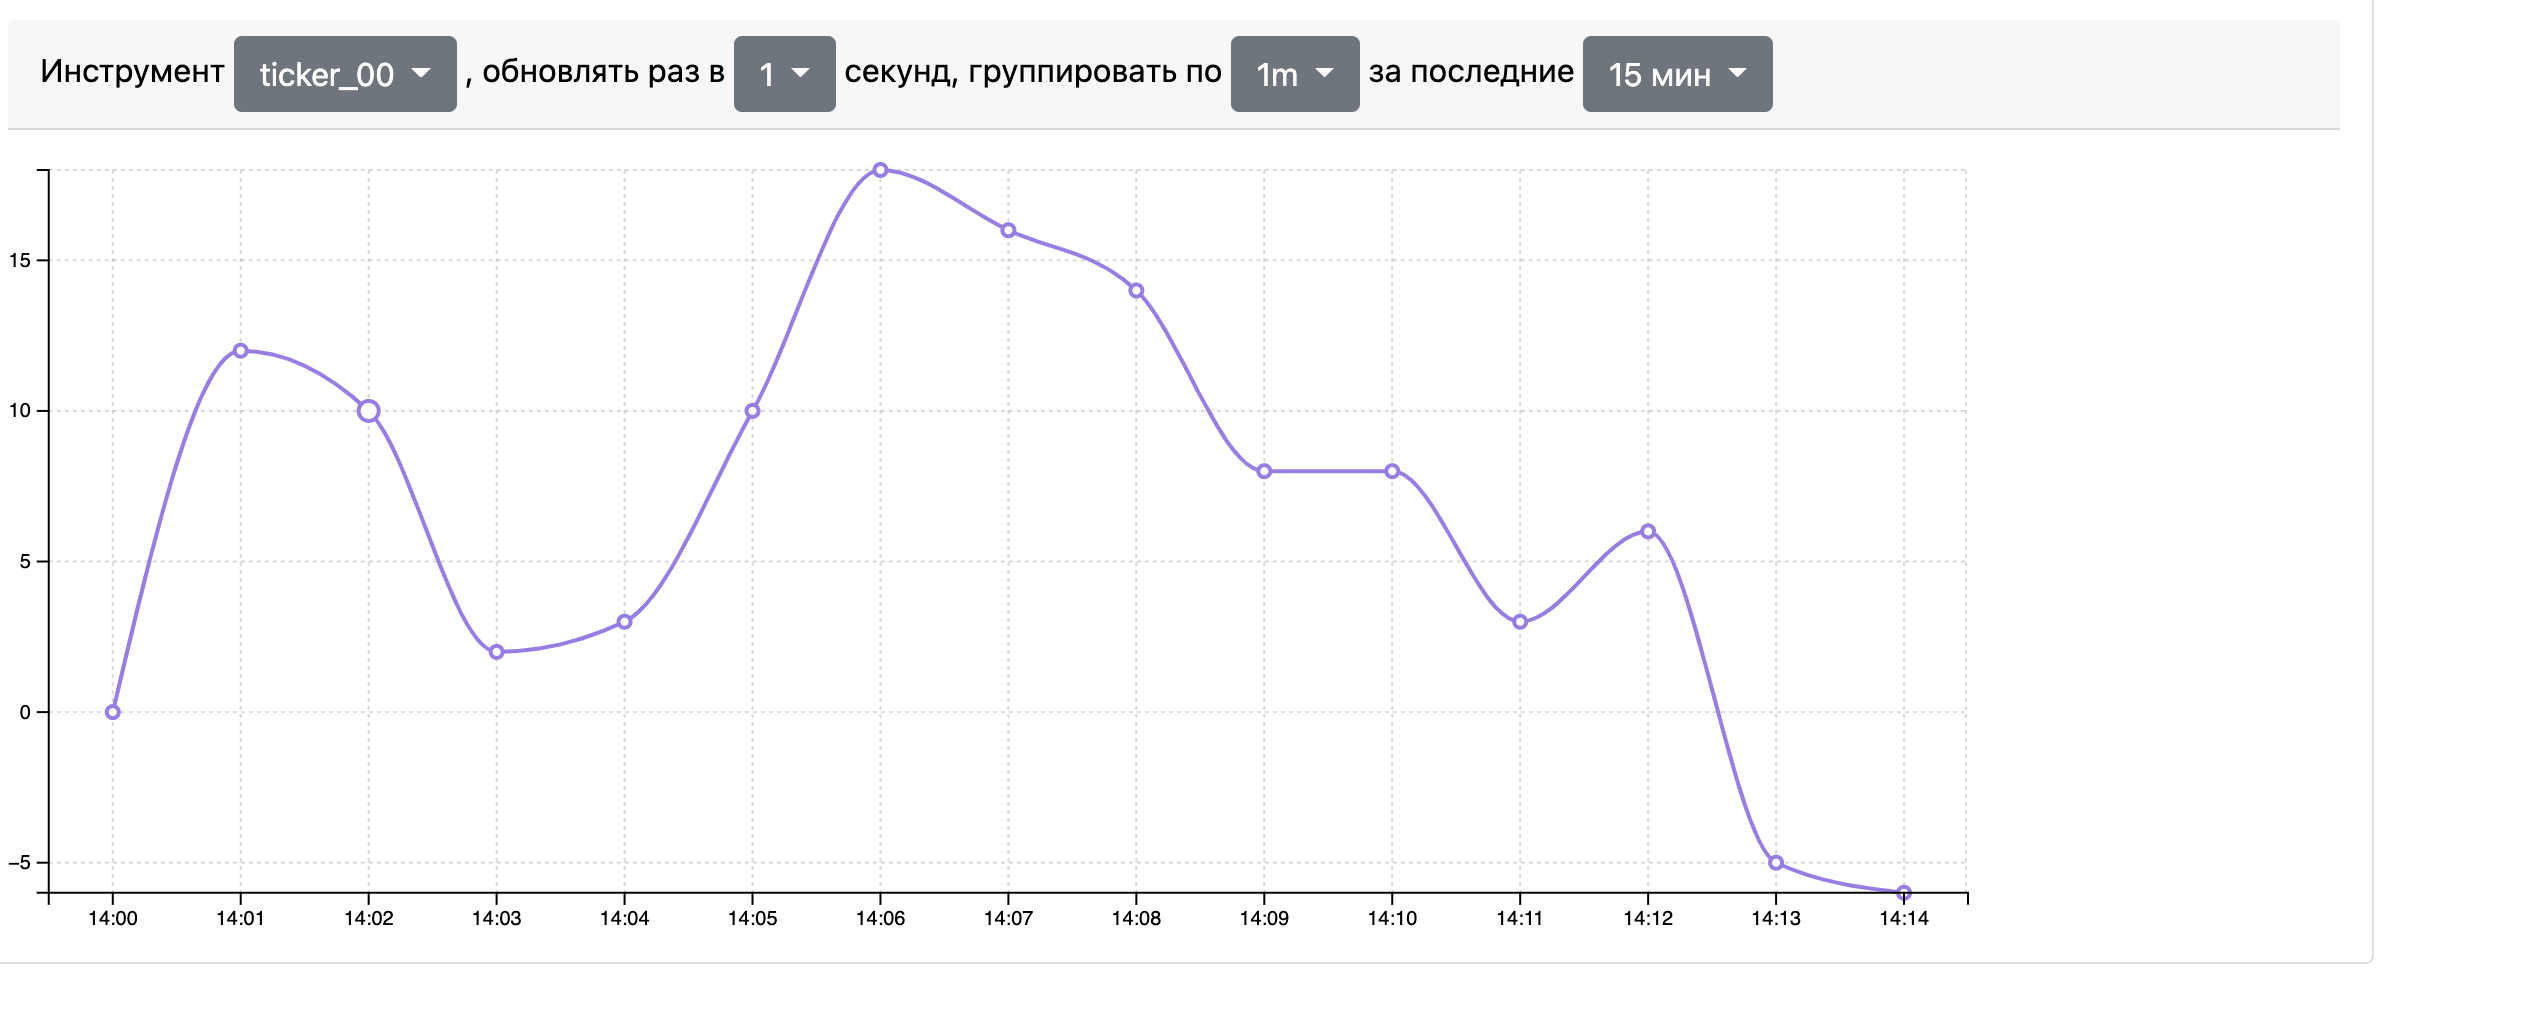
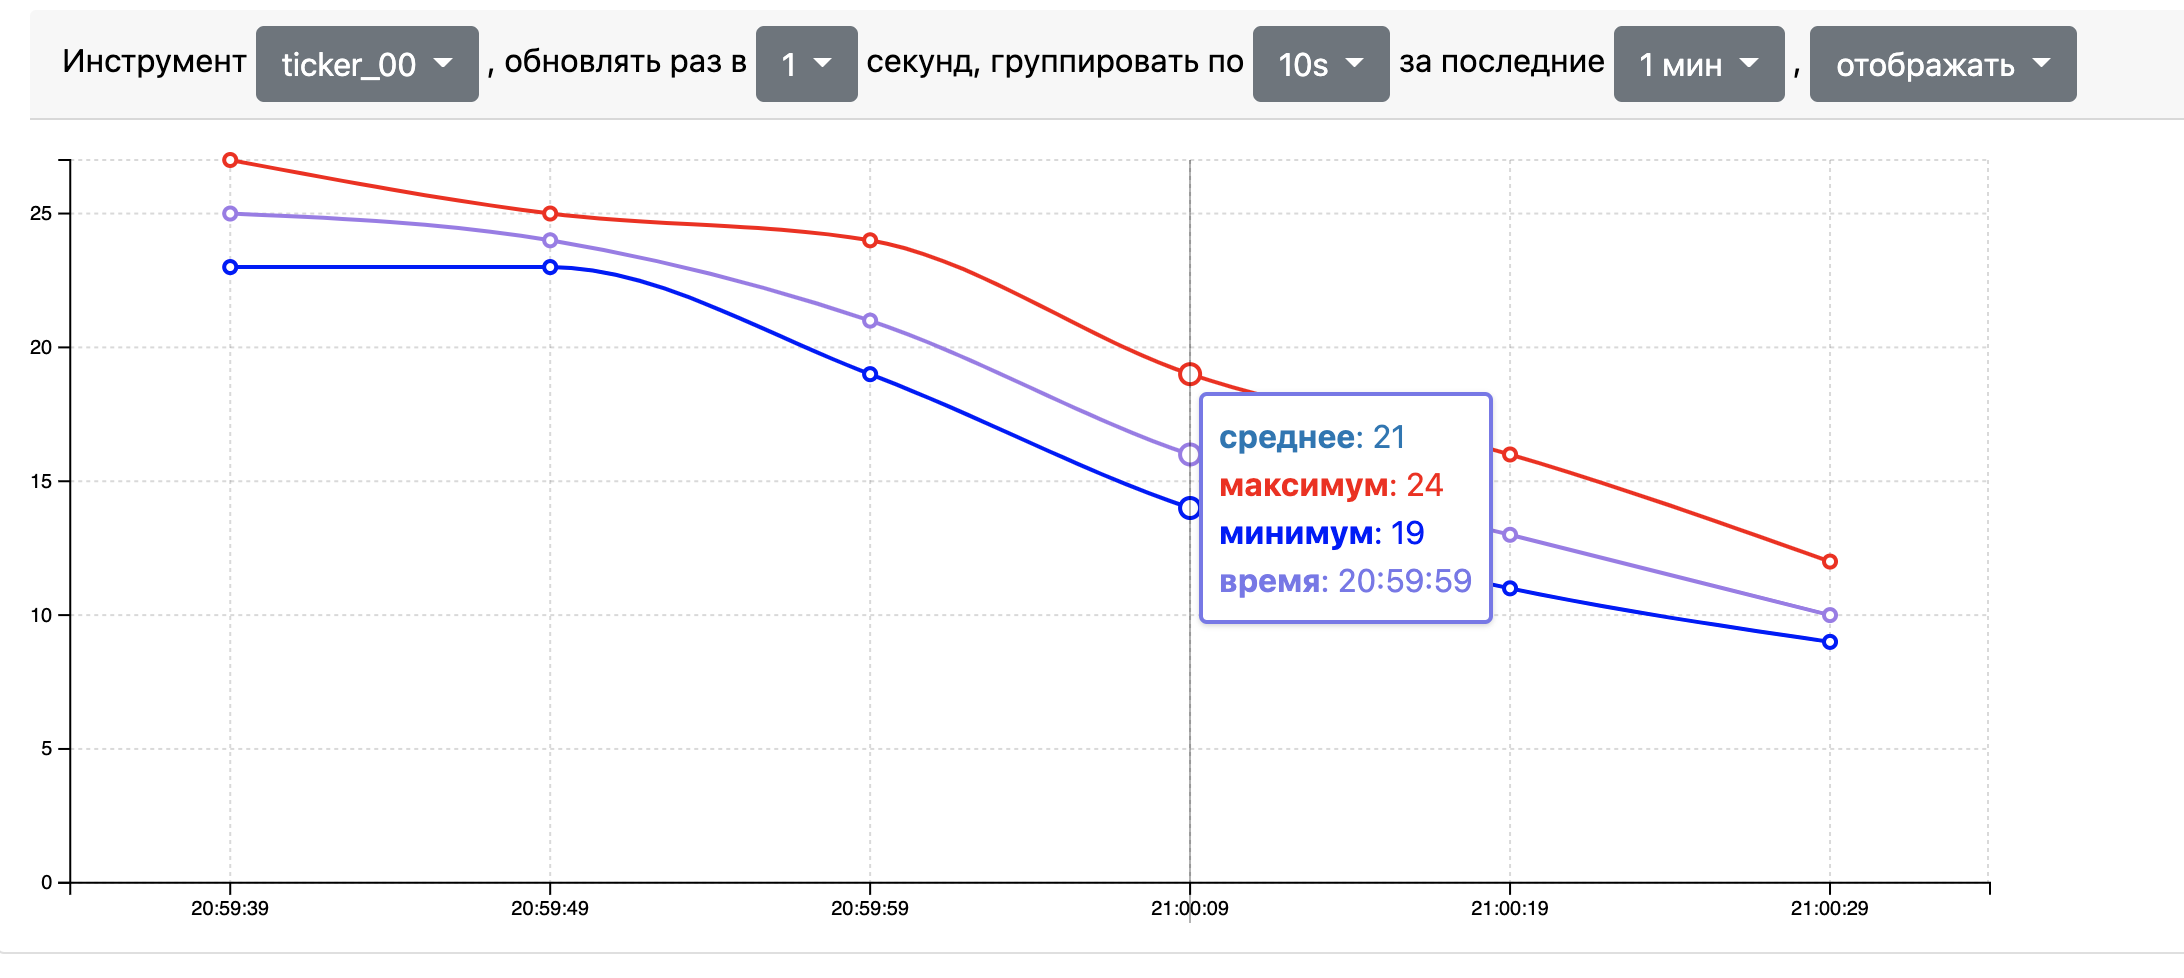
added min and max charts

diff --git a/fronend/src/components/Chart.vue b/fronend/src/components/Chart.vue
@@ -1,22 +1,15 @@
 <script>
-import { defineComponent, ref } from 'vue'
-import { Chart, Grid, Line } from 'vue3-charts'
+import { defineComponent } from 'vue'
+import { Chart, Grid, Line, Tooltip } from 'vue3-charts'
 import axios from "axios";
 
 
-const server = import.meta.env.VUE_APP_SERVER_ADRESS || 'http://80.78.255.252:8000'
+const server = import.meta.env.VUE_APP_SERVER_ADRESS || 'http://127.0.0.1:5000'
 
-console.log("process");
-console.log(import.meta);
-
-const ORIGIN = {
-  'Access-Control-Allow-Origin': 'http://127.0.0.1:3000',
-  'Access-Control-Allow-Credentials': 'true',
-}
 
 export default defineComponent({
   name: 'LineChart',
-  components: { Chart, Grid, Line },
+  components: { Chart, Grid, Line, Tooltip },
   data(){
     return {
       chart_data: [],
@@ -24,10 +17,16 @@ export default defineComponent({
       sleep_delay: 1,
       range_cnt: 5,
       range_type: 's',
+      aggregation_type: 'avg',
       last_minute_show: 1,
       labels:[],
       label: null,
       alert_label: null,
+      show: {
+        min: true,
+        max: true,
+        avg: true,
+      }
     }
   },
   methods: {
@@ -36,20 +35,31 @@ export default defineComponent({
     },
     async update_chart() {
       let data = null;
+      // this.alert_label = null;
       try {
         data = await this.get_updates(this.label, this.range_cnt, this.range_type, this.last_minute_show);
       } catch (e) {
         this.alert_label = "Временно недоступен сервер";
       }
-      this.alert_label = null;
-      if (data!==null)
+      if (data!==null) {
+        if (data.length === 0)
+          this.alert_label = 'Данные за выбранный тип группировки еще не сформированы';
+        else
+          this.alert_label = null;
         this.set_updates(data);
+      }
     },
     async get_updates(label, range_cnt, range_type, last_minute_show){
-      return (await axios.get(`${server}/ticker/${label}?range_cnt=${range_cnt}&range_type=${range_type}&last_minute_show=${last_minute_show}`, ORIGIN)).data
+      const params = {
+        'range_cnt': this.range_cnt,
+        'range_type': this.range_type,
+        'last_minute_show': this.last_minute_show,
+        'aggregation_type': this.aggregation_type,
+      }
+        return (await axios.get(`${server}/ticker/${label}`, {'params': params})).data
     },
     async get_labels(){
-      return (await axios.get(`${server}/ticker/`, ORIGIN)).data
+      return (await axios.get(`${server}/ticker/`)).data
     },
     set_updates(data){
       this.chart_data = data
@@ -152,10 +162,23 @@ export default defineComponent({
                 if (this.last_minute_show > 2 && this.range_type === 's') {
                   this.range_type = 'm';
                   this.range_cnt = 1;
-                }}"
+                }
+                if (this.last_minute_show <= 2 && this.range_type === 'm'){
+                      this.range_type = 's';
+                      this.range_cnt = 10;
+                }
+              }"
           >
             {{item}} мин
           </b-dropdown-item>
+        </b-dropdown>
+        ,
+        <b-dropdown
+            :text="'отображать'"
+        >
+          <b-dropdown-item> <b-form-checkbox v-model="this.show.min">минимум</b-form-checkbox></b-dropdown-item>
+          <b-dropdown-item> <b-form-checkbox v-model="this.show.max">максимум</b-form-checkbox></b-dropdown-item>
+          <b-dropdown-item> <b-form-checkbox v-model="this.show.avg">среднее</b-form-checkbox></b-dropdown-item>
         </b-dropdown>
       </b-card-header>
       <b-badge variant="danger">{{this.alert_label}}</b-badge>
@@ -167,10 +190,38 @@ export default defineComponent({
 
         <template #layers>
           <Grid strokeDasharray="2,2" />
-          <Line :dataKeys="['name', 'value']"
+          <Line :dataKeys="['name', 'avg']"
+                v-if="this.show.avg"
                 type="monotone"
                 :lineStyle="{
-                stroke: '#9f7aea'
+                  stroke: '#9f7aea'
+                }"
+          />
+          <Line :dataKeys="['name', 'min']"
+                v-if="this.show.min"
+                type="monotone"
+                :lineStyle="{
+                  stroke: 'blue'
+                }"
+          />
+          <Line :dataKeys="['name', 'max']"
+                v-if="this.show.max"
+                type="monotone"
+                :lineStyle="{
+                  stroke: 'red'
+                }"
+          />
+
+        </template>
+
+        <template #widgets>
+          <Tooltip
+              borderColor="#48CAE4"
+              :config="{
+                name: { label: 'время' },
+                max: { hide: !this.show.max, label: 'максимум', color: 'red' },
+                avg: { hide: !this.show.avg, label: 'среднее', color: '#0077b6' },
+                min: { hide: !this.show.min, label: 'минимум', color: 'blue' },
               }"
           />
         </template>

diff --git a/fronend/src/App.vue b/fronend/src/App.vue
@@ -1,6 +1,5 @@
 <script>
-import LineChart from './components/HelloWorld.vue'
-// import MonthlyChart from './components/BarChart.vue'
+import LineChart from './components/Chart.vue'
 
 
 export default {

diff --git a/backend/src/app.py b/backend/src/app.py
@@ -3,6 +3,7 @@ from flask_cors import CORS, cross_origin
 import datetime
 
 from src.storage import stocks_runtime, stocks_storage
+from src.utils import iter_property
 
 app = Flask(__name__)
 cors = CORS(app)
@@ -20,12 +21,15 @@ def get_ticker_by_id(ticker_id: int):
     range_cnt = int(request.args.get('range_cnt', 15))
     range_type = request.args.get('range_type', 's')
     last_minute_show = int(request.args.get('last_minute_show'))
+    aggregation_type = request.args.get('aggregation_type', 'avg')
 
     if range_type == 's':
         last_minute_show *= 60
     point_cnt = int(last_minute_show / range_cnt)
 
-    assert point_cnt <= 120, "количество точек ограничено (не более 120)"
+    assert range_type in ['s', 'm'], 'допустимые варианты группировки ("s", "m")'
+    assert aggregation_type in ['avg', 'min', 'max'], 'допустимые варианты агрегации ("avg", "min", "max")'
+    assert 0 < point_cnt <= 120, "количество точек ограничено (не более 120)"
 
     today = datetime.datetime.now()
     step = range_cnt
@@ -36,44 +40,48 @@ def get_ticker_by_id(ticker_id: int):
 
         # секунды надо группировать к целым числам шага, иначе график будет постоянно дергаться,
         # тк в группы границы групп постоянно едут
-        to_whole = (len(stocks_runtime[ticker_id]) - 60) % step
+        to_whole = (len(stocks_runtime[ticker_id]) - 60) % step  # до целого значения шага
         if to_whole > 0:
-            ranges = stocks_runtime[ticker_id][-(step * point_cnt) - to_whole:-to_whole]
+            values = stocks_runtime[ticker_id][-(step * point_cnt) - to_whole:-to_whole]
             today = today - datetime.timedelta(seconds=to_whole)
         else:
-            ranges = stocks_runtime[ticker_id][-(step * point_cnt):]
+            values = stocks_runtime[ticker_id][-(step * point_cnt):]
 
-        def sign(index):
-            stamp = today - datetime.timedelta(seconds=int(len(ranges) - index * step + step / 2))
-            return stamp.strftime('%H:%M:%S')
+        def get_seconds_range_by_step(step_num):
+            return values[step * step_num:step * (step_num + 1)]
 
         return jsonify([
             {
-                'name': sign(i),
-                'value': int(sum(ranges[step * i:step * (i + 1)]) / step),
+                'name': (today - datetime.timedelta(seconds=int(len(values) - step_num * step + step / 2))).strftime('%H:%M:%S'),
+                'avg': int(sum(seconds)/step),
+                'min': min(seconds),
+                'max': max(seconds),
             }
-            for i in range(int(len(ranges) / step))
+            for step_num, seconds in iter_property(range(int(len(values) / step)), get_seconds_range_by_step)
         ])
 
     if range_type == 'm':
         assert range_cnt <= 60
-
-        ranges = stocks_storage[ticker_id][today.hour]['value']
-        groups_amount = int(len(ranges) / step)
+        if stocks_storage[ticker_id].get(today.hour) is None:
+            return jsonify([])
+        values = stocks_storage[ticker_id][today.hour]['value']
+        groups_amount = int(len(values) / step)
         groups_amount = point_cnt if groups_amount > point_cnt else groups_amount
-        start_minute = today.minute - groups_amount * step
+        start_minute = max(values.keys()) + 1 - groups_amount * step
 
-        def sign(i):
-            stamp = today - datetime.timedelta(minutes=int(step * groups_amount - step * i))
-            return stamp.strftime('%H:%M')
+        def get_minute_range_by_step(step_num):
+            return (
+                values[minute]
+                for minute in range(start_minute + step * step_num, start_minute + step * (step_num + 1))
+                if values.get(minute) is not None
+            )
 
         return jsonify([
             {
-                'name': sign(i),
-                'value': int(sum([ranges[j]['avg']
-                                  for j in range(start_minute + step * i,start_minute + step * (i+1))
-                                  if ranges.get(j) is not None]
-                                 ) / step)
+                'name': (today - datetime.timedelta(minutes=int(step * groups_amount - step * step_num))).strftime('%H:%M'),
+                'avg': int(sum([minute['avg'] for minute in minute_aggregated_list]) / step),
+                'max': max([minute['max'] for minute in minute_aggregated_list]),
+                'min': min([minute['min'] for minute in minute_aggregated_list]),
             }
-            for i in range(groups_amount)
+            for step_num, minute_aggregated_list in iter_property(range(groups_amount), get_minute_range_by_step)
         ])

diff --git a/backend/src/utils.py b/backend/src/utils.py
@@ -1,0 +1,5 @@
+from typing import Callable, Iterable
+
+
+def iter_property(iteable: Iterable, *args: Callable):
+    return ((i, *(func(i) for func in args)) for i in iteable)

diff --git a/README.md b/README.md
@@ -10,6 +10,8 @@
 какой промежуток времени будет агрегирован в одну точку и врменной 
 дипазон - за какое время показывать данные.
 
+Три графика отображают минимальное (синий), среднее (фиолетовый) и 
+максимальное (красный) значения акции за период
 
 ## Локальный запуск
 1) Запусть апи:
